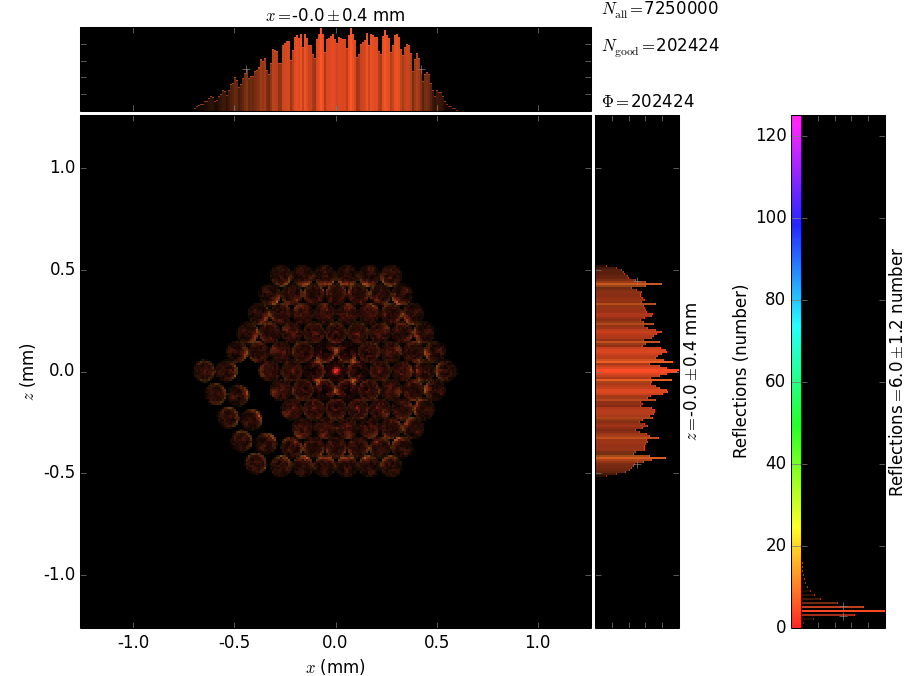
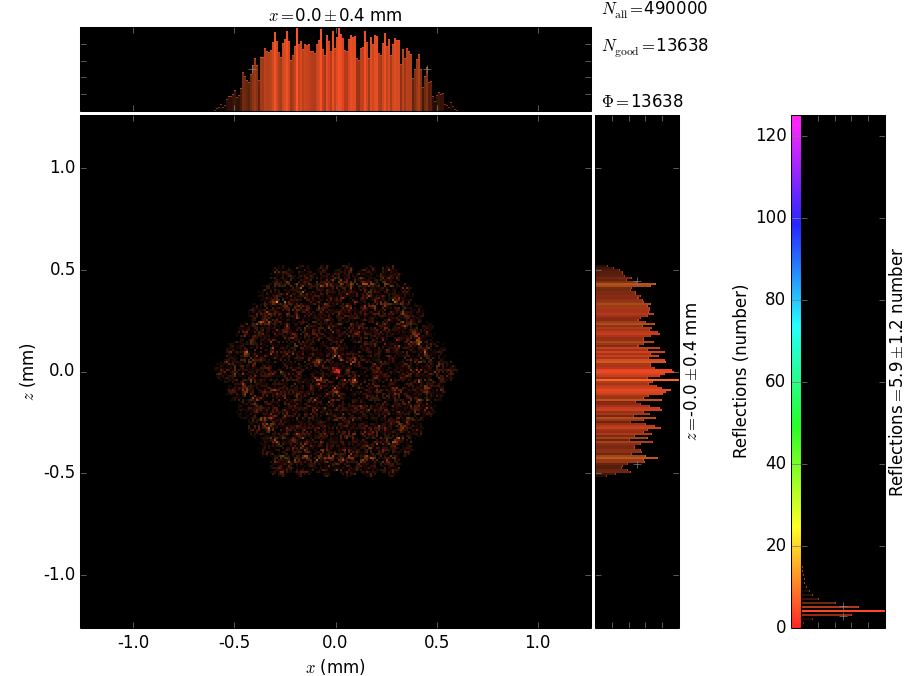
Pinhole possiblity

diff --git a/realisticPolycapillary.py b/realisticPolycapillary.py
@@ -7,7 +7,7 @@ import matplotlib as mpl
 import matplotlib.pyplot as plt
 
 from PlotMono import plot2D
-from screening import *
+import screening as scr
 
 import xrt.backends.raycing as raycing
 import xrt.backends.raycing.sources as rs
@@ -41,7 +41,12 @@ rOut = Dout/Din * rIn # Radius must shrink alongside the lens
 rMax = Dmax/Din * rIn # Max value of local radius
 wall=   0.0005 * 4 # |*50 make wider walls for structure visibility
 
-# Surce parameters
+# Pinhole parameters
+ypin    = 155.0         # Optical path position [mm]
+pinlen  = 0.1           # length
+rpin    = 0.005*20         # Pinhole radius [mm] 
+
+# Source parameters
 distx       = 'flat'
 dx          = 0.1
 distxprime  = 'normal'
@@ -51,6 +56,52 @@ distz       = 'flat'
 dz          = 0.1
 distzprime  = 'normal'
 dzprime     = 0.1
+
+class Pinhole(roe.OE):
+    def __init__(self, *args, **kwargs):
+        self.radius = kwargs.pop("radius")
+        roe.OE.__init__(self, *args, **kwargs)
+
+    def local_x0(self, s):
+        return 0.0*s
+
+    def local_x0Prime(self, s):
+        return 0.0
+
+    def local_r0(self, s):
+        return self.radius + 0.0*s
+
+    def local_r0Prime(self, s):
+        return 0.0
+
+    def local_r(self, s, phi):
+        den = np.cos(np.arctan(self.local_x0Prime(s)))**2
+        return self.local_r0(s) / (np.cos(phi)**2/den + np.sin(phi)**2)
+
+    def local_n(self, s, phi):
+        a = -np.sin(phi)
+        b = -np.sin(phi)*self.local_x0Prime(s) - self.local_r0Prime(s)
+        c = -np.cos(phi)
+        norm = np.sqrt(a**2 + b**2 + c**2)
+        # FIXME: a and c probably should also get minues
+        # but due to symmetry it's not visible for now?
+        return a/norm, -b/norm, c/norm
+
+    def xyz_to_param(self, x, y, z):
+        """ *s*, *r*, *phi* are cynindrc-like coordinates of the capillary.
+        *s* is along y in inverse direction, started at the exit,
+        *r* is measured from the capillary axis x0(s)
+        *phi* is the polar angle measured from the z (vertical) direction."""
+        s = y
+        phi = np.arctan2(x - self.local_x0(s), z)
+        r = np.sqrt((x-self.local_x0(s))**2 + z**2)
+        return s, phi, r
+
+    def param_to_xyz(self, s, phi, r):
+        x = self.local_x0(s) + r*np.sin(phi)
+        y = s
+        z = r * np.cos(phi)
+        return x, y, z
 
 class BentCapillary(roe.OE):
     def __init__(self, *args, **kwargs):
@@ -64,9 +115,9 @@ class BentCapillary(roe.OE):
         self.y2 = self.limPhysY[1]
         self.ym = self.bl.ym
 
-        # local radius function parameters (linar from rIn ot rOut)
+        # local radius function parameters (quadratic from rIn ot rOut)
         # linear solve of 3 equations for parabolic shape
-        # of r(s) currently this curve is the same for each 
+        # of r(s): currently this curve is the same for each 
         # capillary, so this could've been done once for lens,
         # not once for capillary
         B = [self.rIn, self.rOut, self.rMax]
@@ -131,6 +182,7 @@ def build_beamline(nrays=1e4):
     beamLine.Dout   = Dout
     beamLine.nRefl  = nRefl
 
+    # [0] - Source of light
     rs.GeometricSource(
         beamLine,'GeometricSource',(0,0,0), nrays=nrays,
         distx=distx, dx=dx, distxprime=distxprime, dxprime=dxprime,
@@ -140,6 +192,7 @@ def build_beamline(nrays=1e4):
     # Insert screen at the lens entrance here
     beamLine.entScreen = rsc.Screen(beamLine, 'EntranceScreen',(0,y1,0))
 
+    # [1] - Lens
     beamLine.capillaries = []
     layers = 0,6
     beamLine.toPlot = []
@@ -154,10 +207,7 @@ def build_beamline(nrays=1e4):
         for i in i6:
             for m in ms:
                 # this seems like h_in
-                #bonus = rIn * round(n/3)
-                bonus = 0
-                if (i==3):
-                    bonus += 2*rIn*round(n/4)
+                bonus = 2*rIn * round(n/6)
                 x = 2*(rIn + wall) * (n**2 + m**2 - n*m)**0.5
                 x += bonus
                 roll1 = -np.arctan2(np.sqrt(3)*m, 2*n - m)
@@ -172,17 +222,34 @@ def build_beamline(nrays=1e4):
 
     beamLine.exitScreen = rsc.Screen(beamLine,'ExitScreen', (0,y2,0))
 
+    # [2] Pinhole 
+#    beamLine.pinhole = Pinhole(beamLine, 'Pinhole',
+#                    (0, 0, 0), limPhysY=[ypin, ypin+pinlen], order=8,
+#                    radius=rpin)
+    p_pin = [0, 0, 0, 0, 0, 0]
+    beamLine.pinhole = BentCapillary(beamLine, 'PinHole',
+                    [0,0,0], roll=0, limPhysY=[ypin, ypin+pinlen],
+                    order=8, rIn=rpin, rOut=rpin, rMax=rpin,
+                    curveCoeffs=p_pin, h_in=0)
+
     # Create evenly distributed screens between lens exit
     # and M=1 spot
-    createScreens(beamLine,[y2, yf + yf-y2], 3)
+    scr.createScreens(beamLine,[y2, yf + yf-y2], 4)
+    # Set screen used before the pinhole
+    scr.setUsed(beamLine, [0, ypin])
+    # Set used after pinhole as well
+    scr.setUsed(beamLine, [ypin, 200])
+
     return beamLine
 
-
 def run_process(beamLine, shineOnly1stSource=False):
+    # [0]
     beamSource = beamLine.sources[0].shine()
     # at the entrance | unused
     EntranceScreen = beamLine.entScreen.expose(beamSource)
     outDict = {'beamSource': beamSource, 'EntranceScreen': EntranceScreen}
+
+    # [1]
     # Start collecting capillaries' light
     beamCapillaryGlobalTotal = None
     for i, capillary in enumerate(beamLine.capillaries):
@@ -208,8 +275,19 @@ def run_process(beamLine, shineOnly1stSource=False):
     # See them on screen 
     ExitScreen = beamLine.exitScreen.expose(beamCapillaryGlobalTotal)
     outDict['ExitScreen'] = ExitScreen
+
     # Create exposed beamlines in outside module screens.
-    outDict.update(exposeScreens(beamLine, beamCapillaryGlobalTotal))
+    prePinhole = scr.exposeScreens(beamLine, beamCapillaryGlobalTotal,\
+            [0, ypin])
+
+    # [2]
+    pinholeGlobal, pinholeLocal = beamLine.pinhole.multiple_reflect(\
+            beamCapillaryGlobalTotal, maxReflections=5)
+    postPinhole = scr.exposeScreens(beamLine, pinholeGlobal,\
+            [ypin, 200])
+
+    outDict.update(prePinhole)
+    outDict.update(postPinhole)
 
     return outDict
 
@@ -220,7 +298,7 @@ def main():
     plot2D(beamLine)
 
     # Create xrtp.Plots in outside module  
-    plots = createPlots(beamLine)
+    plots = scr.createPlots(beamLine)
     # FIXME: Manually add plot showing entrance structure
     limits = [ - Din/1.9, Din/1.9 ]
     plot = xrtp.XYCPlot(

diff --git a/screening.py b/screening.py
@@ -16,21 +16,43 @@ import xrt.plotter as xrtp
 def createScreens(beamLine, ranges, howmany):
     positions = np.linspace(ranges[0], ranges[1], howmany)
     screens = {}
+    isUsed  = {}
     for it in positions:
-        screen = rsc.Screen(beamLine,'Screen_at_'+str(it), (0,it,0))
+        screen = rsc.Screen(beamLine,'Screen_at_'+str(int(it)), (0,it,0))
         screens[it] = screen
+        isUsed[it]  = False
         print 'Screen at ' + str(it)
     # Save ranges as beamline property, no need to keep globally
     beamLine.s_positions = positions
+    beamLine.isUsed = isUsed
     beamLine.screens  = screens
 
-# Next screens need to be exposed in run_process and
+# Special function specyfying whicch screens will be used
+def setUsed(beamLine, _range):
+    for it in beamLine.s_positions:
+        if it >= _range[0] and it < _range[1]:
+            beamLine.isUsed[it] = True
+
+# Next: screens need to be exposed in run_process and
 # dictionary must be prepared
-def exposeScreens(beamLine, beamToBeSeen):
+# FIXME: run_process is apparently being run inside run_ray_traycing,
+# so createScreens doesn't know yet which screens are being used
+cunter = 0
+def exposeScreens(beamLine, beamToBeSeen, _range):
+
+    # Debug utilities
+    global cunter
+    cunter += 1
+    print 'It\'s being run: ' + str(cunter) + ' time!'
+
     partDict = {}
     for it in beamLine.s_positions:
-        partDict['Screen_at_'+str(int(it))] =\
-                beamLine.screens[it].expose(beamToBeSeen)
+        if it >= _range[0] and it < _range[1]:
+
+            partDict[beamLine.screens[it].name] =\
+                    beamLine.screens[it].expose(beamToBeSeen)
+            beamLine.isUsed[it] = True
+
     return partDict
 
 # Prepare plots for raycing
@@ -41,23 +63,27 @@ def createPlots(beamLine):
     plots = []
     # Plots after the exit
     for it in beamLine.s_positions:
-#        print 'current range: ' + str(it)
-#        print 'Screen_at_'+str(it)
-        name = 'Screen_at_'+str(int(it))
-        plot = xrtp.XYCPlot(name, (1,),
-            xaxis=xrtp.XYCAxis(r'$x$', 'mm', data=raycing.get_x,\
-                    bins=256, ppb=2, limits=xLimits),
-            yaxis=xrtp.XYCAxis(r'$z$', 'mm', data=raycing.get_z,\
-                    bins=256, ppb=2, limits=zLimits),
-            caxis=xrtp.XYCAxis('Reflections', 'number',\
-                    data=raycing.get_reflection_number,\
-                    bins=256, ppb=2, limits=cLimits),
-            beamState=name, title=name,\
-                    aspect='auto')
-        plot.baseName = name
-        plot.saveName = 'png/' + plot.baseName + '.png'
-#        plot.persistentName = 'pickle/' + plot.baseName + '.pickle'
-        plots.append(plot)
-#    print 'leaving createPlots()'
+        if beamLine.isUsed[it]:
+
+            name = 'Screen_at_'+str(int(it))
+            print 'Creating plot' + name
+
+            # Plot Construction
+            plot = xrtp.XYCPlot(name, (1,),
+                xaxis=xrtp.XYCAxis(r'$x$', 'mm', data=raycing.get_x,\
+                        bins=256, ppb=2, limits=xLimits),
+                yaxis=xrtp.XYCAxis(r'$z$', 'mm', data=raycing.get_z,\
+                        bins=256, ppb=2, limits=zLimits),
+                caxis=xrtp.XYCAxis('Reflections', 'number',\
+                        data=raycing.get_reflection_number,\
+                        bins=256, ppb=2, limits=cLimits),
+                beamState=name, title=name,\
+                        aspect='auto')
+            # END Plot Construction
+
+            plot.baseName = name
+            plot.saveName = 'png/' + plot.baseName + '.png'
+#            plot.persistentName = 'pickle/' + plot.baseName + '.pickle'
+            plots.append(plot)
 
     return plots
